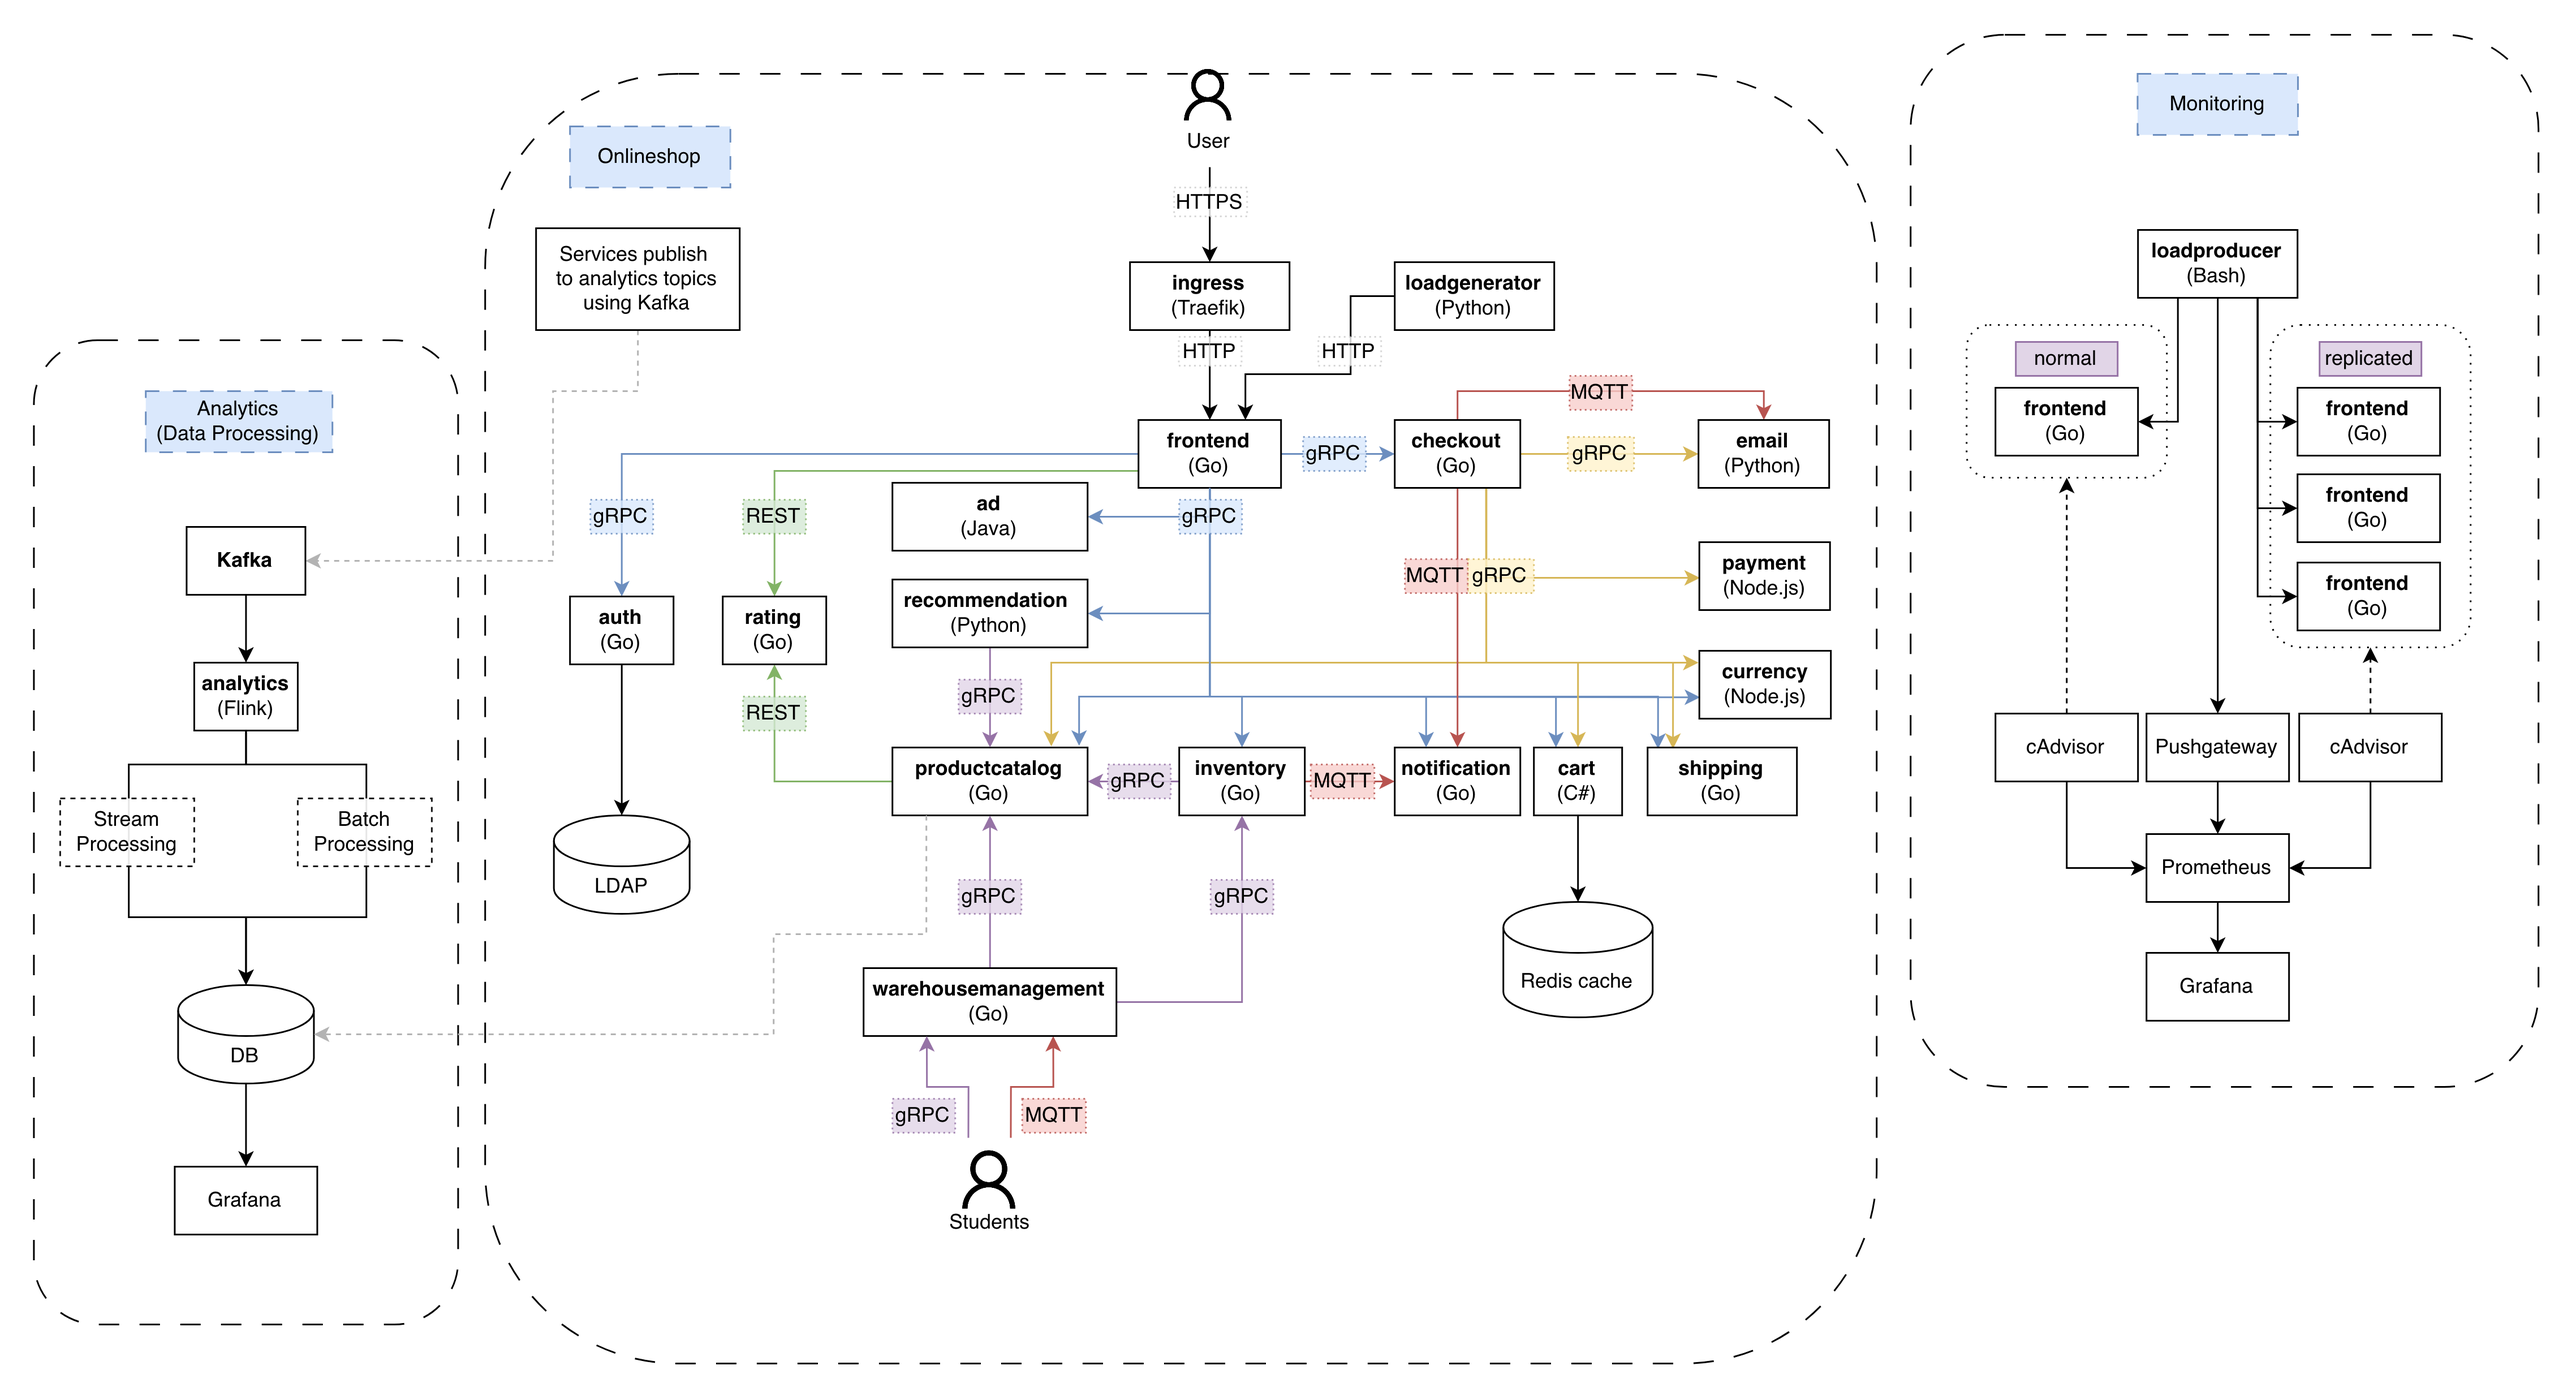
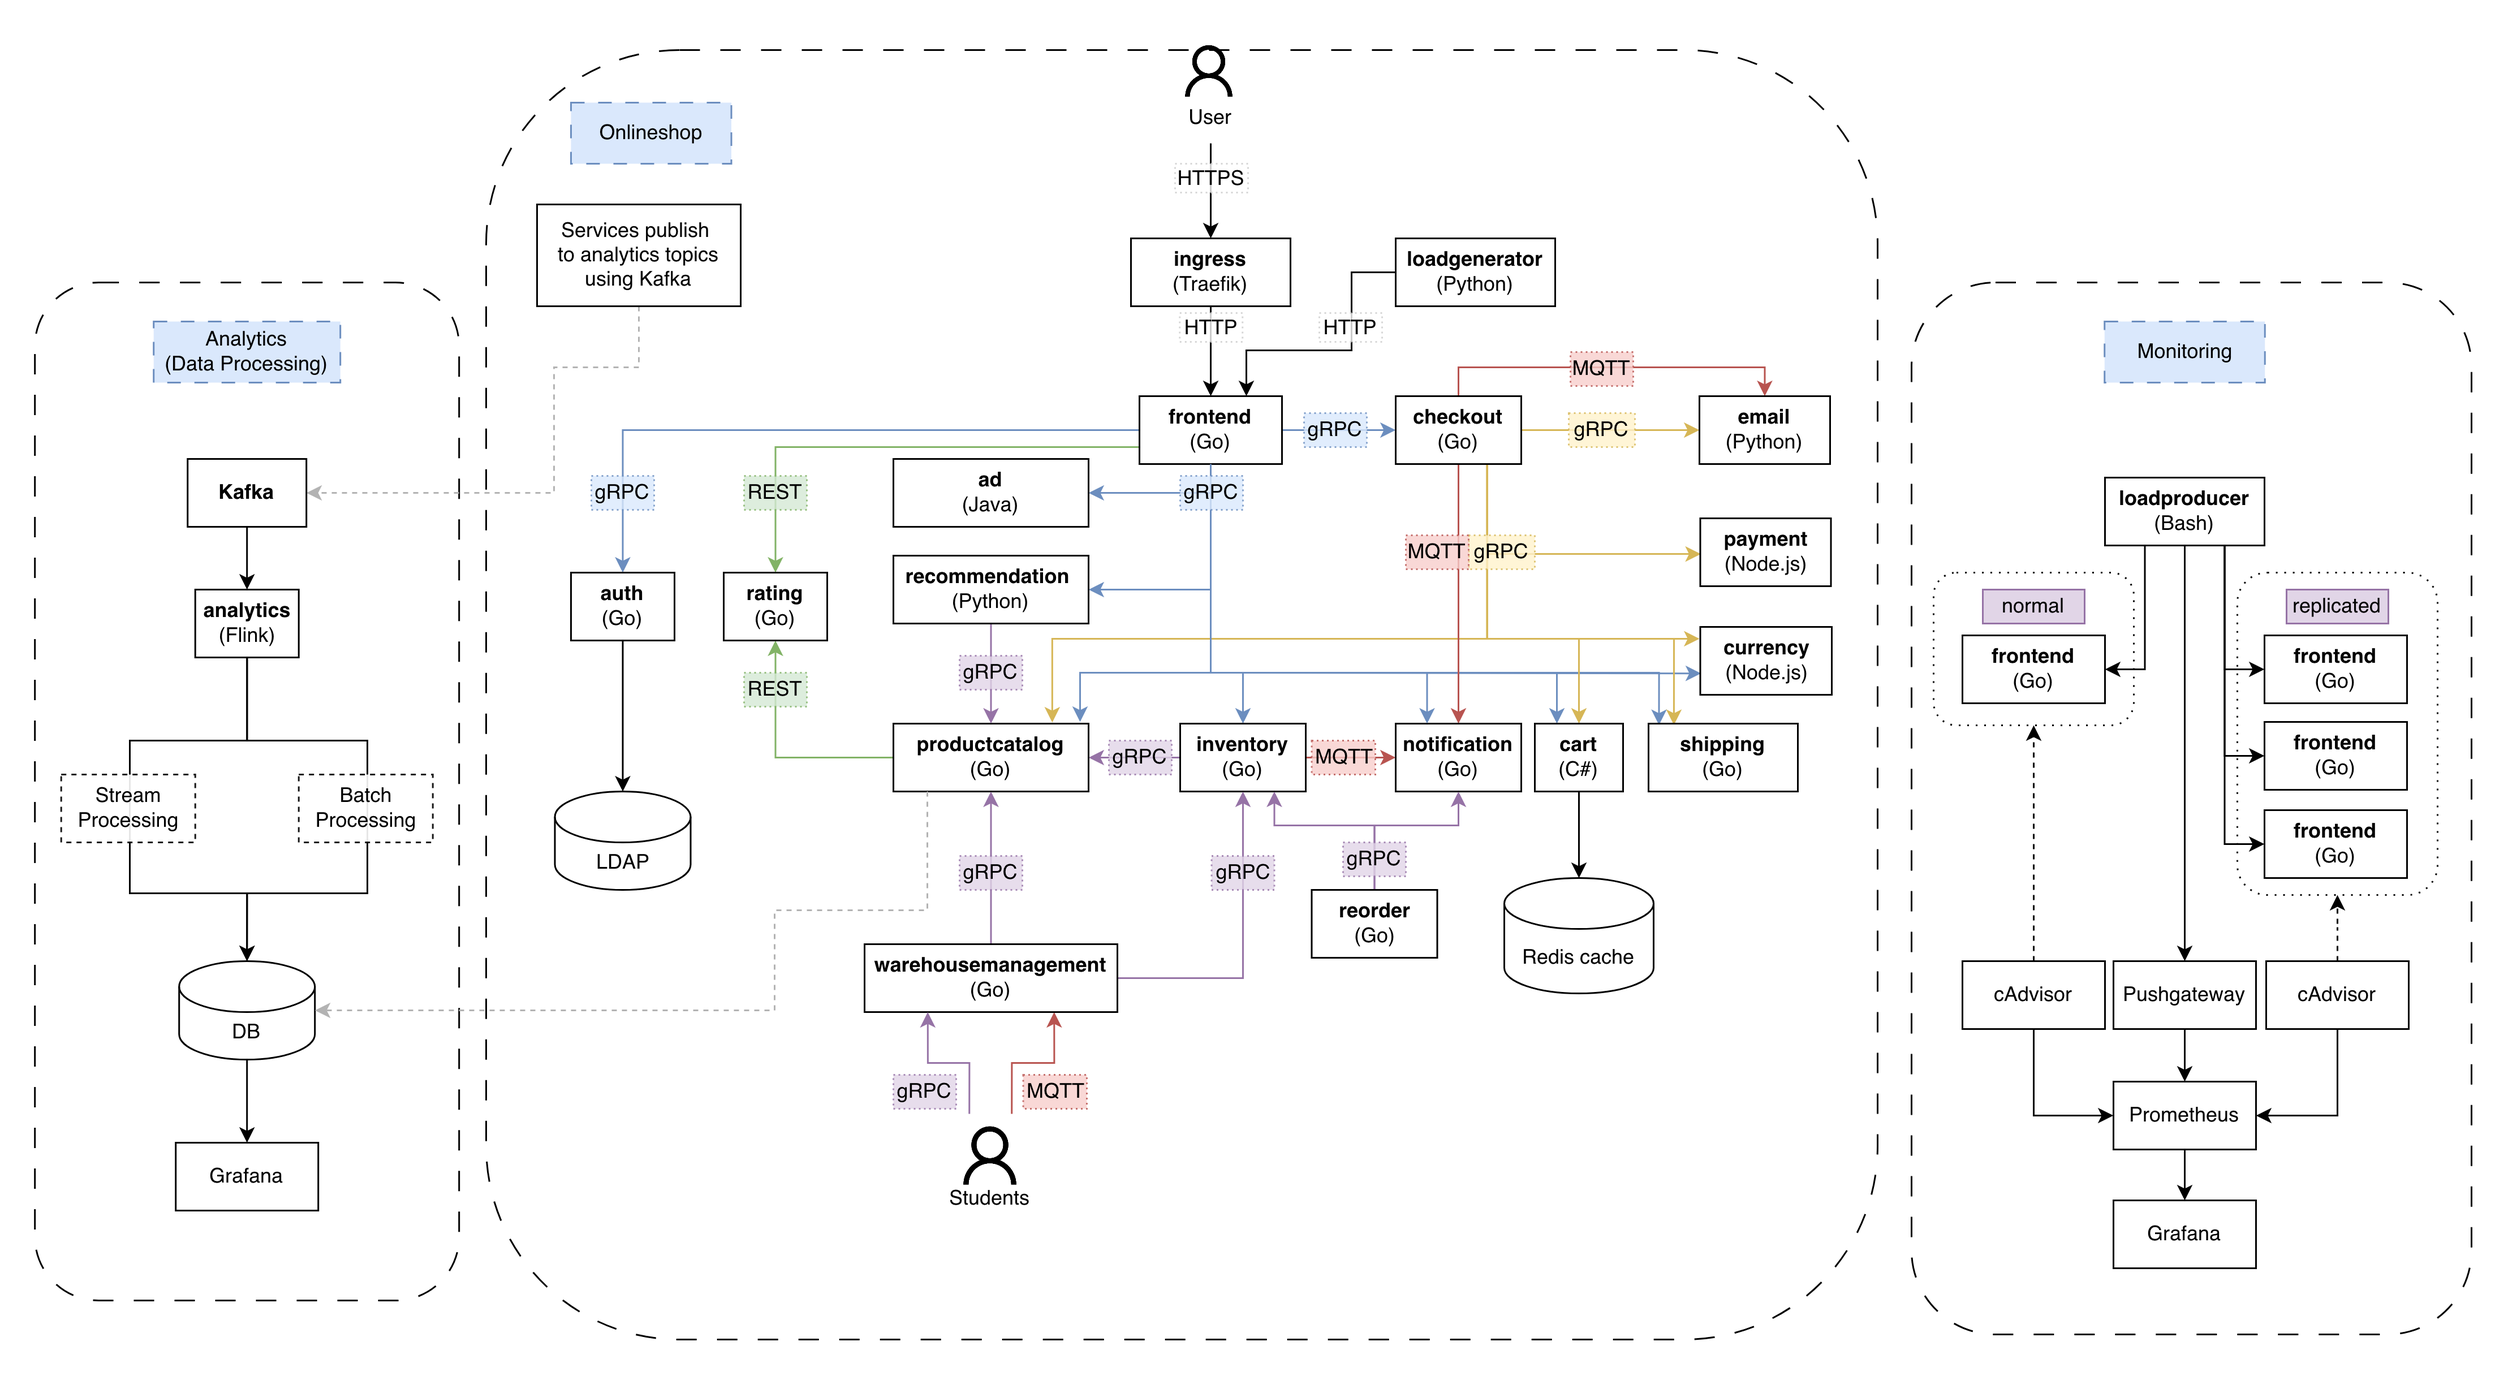
docs(root): add reorderservice to service list and architecture diagram

diff --git a/README.md b/README.md
@@ -12,23 +12,24 @@ infrastructure services, along with load generators used to demonstrate the appl
 ### Microservices
 Find **Protocol Buffers Descriptions** at the [`./protos` directory](/protos).
 
-| Service                                             | Language      | Description                                                                                                                                       |
-|-----------------------------------------------------|---------------|---------------------------------------------------------------------------------------------------------------------------------------------------|
-| [frontend](/src/frontend)                           | Go            | Exposes an HTTP server to serve the website. Does not require signup/login and generates session IDs for all users automatically.                 |
-| [productcatalogservice](/src/productcatalogservice) | Go            | Provides the list of products from a JSON file and ability to search products and get individual products.                                        |
-| [inventoryservice](/src/inventoryservice)           | Go            | Manages the inventory of products.                                                                                                                |
-| [checkoutservice](/src/checkoutservice)             | Go            | Retrieves user cart, prepares order and orchestrates the payment, shipping and the email notification.                                            |
-| [warehousemanagement](/src/warehousemanagement)     | Go            | Acts as a wrapper around inventory- and productcatalogservice and allows to connect and perform operations via gRPC/MQTT from outside the cluster |
-| [cartservice](/src/cartservice)                     | C#            | Stores the items in the user's shopping cart in Redis and retrieves it.                                                                           |
-| [authservice](/src/authservice)                     | Go            | Handles user authentication and authorization by searching for user information in a LDAP directory. Issues JWT for auth in other services        |
-| [currencyservice](/src/currencyservice)             | Node.js       | Converts one money amount to another currency. Uses real values fetched from European Central Bank. It's the highest QPS service.                 |
-| [ratingservice](/src/ratingservice)                 | Go            | Provides product ratings and reviews.                                                                                                             |
-| [notificationservice](/src/notificationservice)     | Go            | Provide low stock alerts and list of recent orders.                                                                                               |
-| [paymentservice](/src/paymentservice)               | Node.js       | Charges the given credit card info (mock) with the given amount and returns a transaction ID.                                                     |
-| [shippingservice](/src/shippingservice)             | Go            | Gives shipping cost estimates based on the shopping cart. Ships items to the given address (mock)                                                 |
-| [emailservice](/src/emailservice)                   | Python        | Sends users an order confirmation email (mock).                                                                                                   |
-| [recommendationservice](/src/recommendationservice) | Python        | Recommends other products based on what's given in the cart.                                                                                      |
-| [adservice](/src/adservice)                         | Java          | Provides text ads based on given context words.                                                                                                   |
+| Service                                             | Language | Description                                                                                                                                       |
+|-----------------------------------------------------|----------|---------------------------------------------------------------------------------------------------------------------------------------------------|
+| [frontend](/src/frontend)                           | Go       | Exposes an HTTP server to serve the website. Does not require signup/login and generates session IDs for all users automatically.                 |
+| [productcatalogservice](/src/productcatalogservice) | Go       | Provides the list of products from a JSON file and ability to search products and get individual products.                                        |
+| [inventoryservice](/src/inventoryservice)           | Go       | Manages the inventory of products.                                                                                                                |
+| [checkoutservice](/src/checkoutservice)             | Go       | Retrieves user cart, prepares order and orchestrates the payment, shipping and the email notification.                                            |
+| [warehousemanagement](/src/warehousemanagement)     | Go       | Acts as a wrapper around inventory- and productcatalogservice and allows to connect and perform operations via gRPC/MQTT from outside the cluster |
+| [cartservice](/src/cartservice)                     | C#       | Stores the items in the user's shopping cart in Redis and retrieves it.                                                                           |
+| [authservice](/src/authservice)                     | Go       | Handles user authentication and authorization by searching for user information in a LDAP directory. Issues JWT for auth in other services        |
+| [currencyservice](/src/currencyservice)             | Node.js  | Converts one money amount to another currency. Uses real values fetched from European Central Bank. It's the highest QPS service.                 |
+| [ratingservice](/src/ratingservice)                 | Go       | Provides product ratings and reviews.                                                                                                             |
+| [notificationservice](/src/notificationservice)     | Go       | Provide low stock alerts and list of recent orders.                                                                                               |
+| [paymentservice](/src/paymentservice)               | Node.js  | Charges the given credit card info (mock) with the given amount and returns a transaction ID.                                                     |
+| [shippingservice](/src/shippingservice)             | Go       | Gives shipping cost estimates based on the shopping cart. Ships items to the given address (mock)                                                 |
+| [emailservice](/src/emailservice)                   | Python   | Sends users an order confirmation email (mock).                                                                                                   |
+| [recommendationservice](/src/recommendationservice) | Python   | Recommends other products based on what's given in the cart.                                                                                      |
+| [adservice](/src/adservice)                         | Java     | Provides text ads based on given context words.                                                                                                   |
+| [reorderservice](/src/reorderservice)               | Python   | Reorder Products based on streamed Stock Alerts.                                                                                                  |
 
 ### Infrastructure Services
 | Service                                                                   | Image/Version                             | Purpose                                                                                           |
